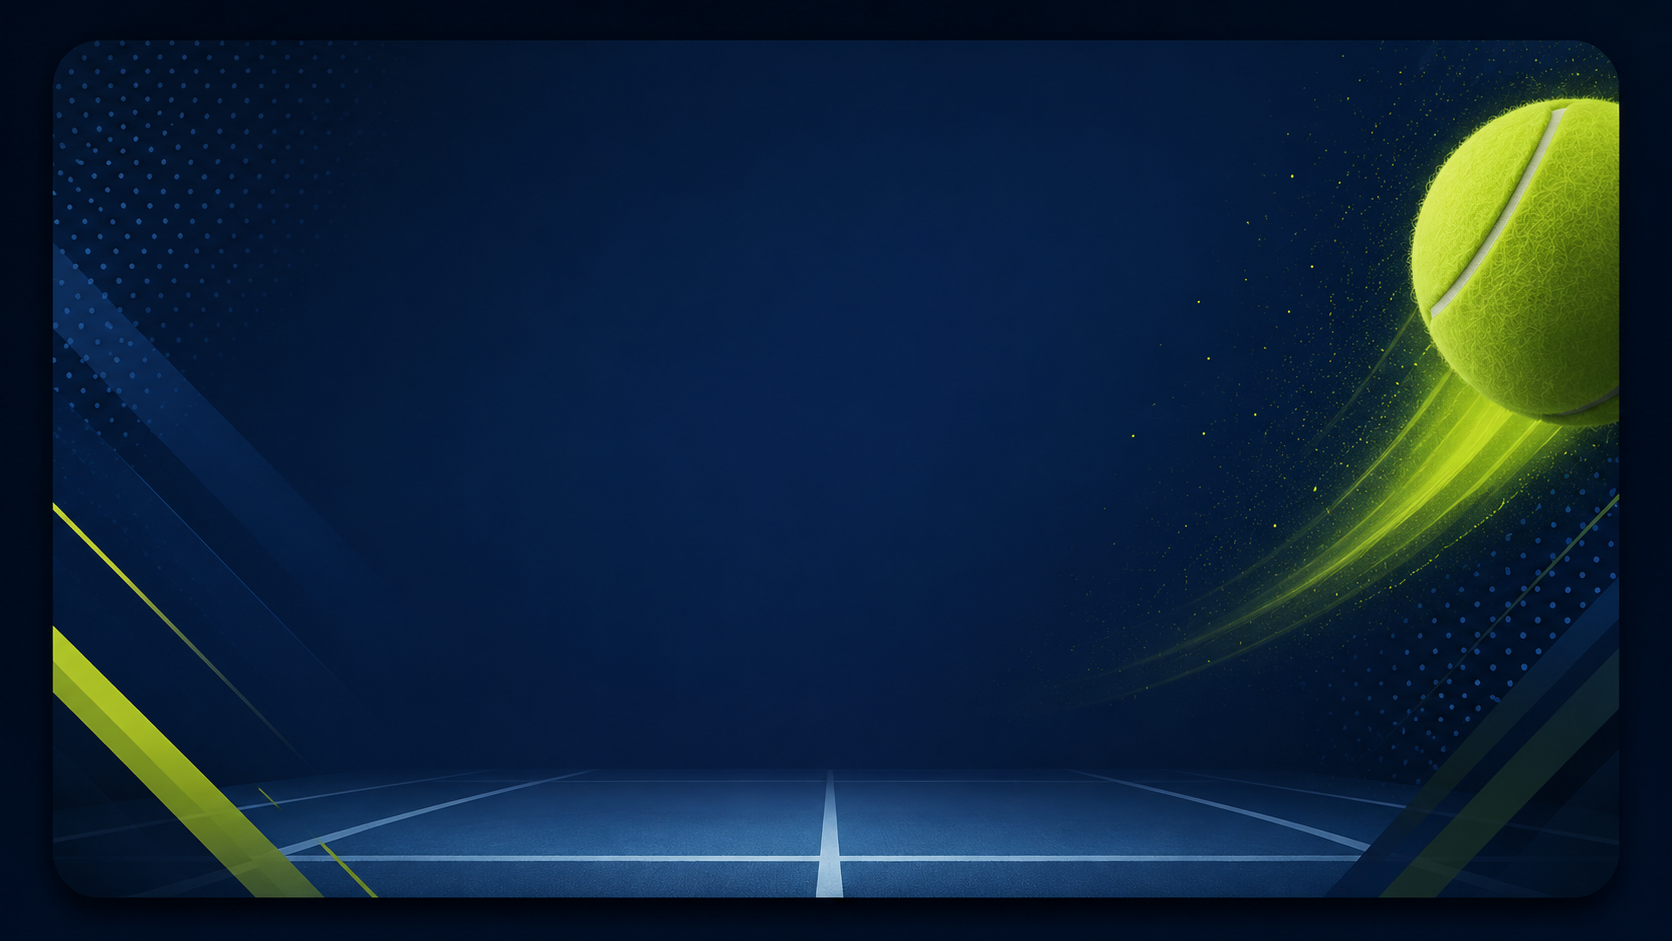
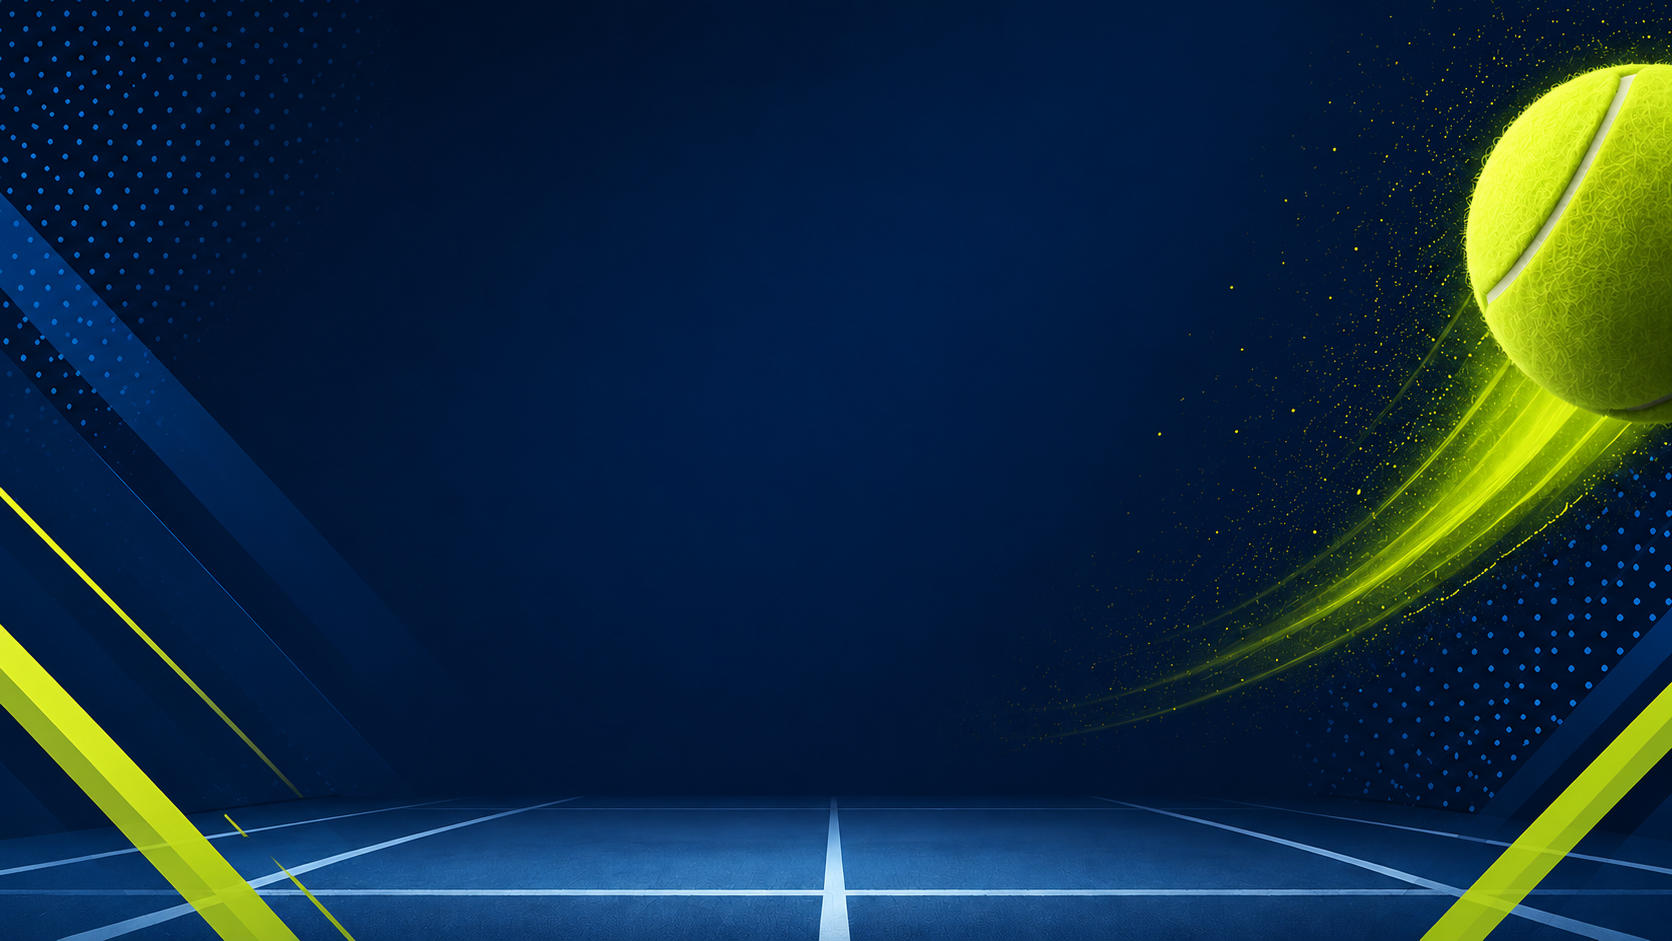
feat: Añadir banderas de equipos y texto 'VS' a las imágenes de eventos
Se añadieron las banderas de los equipos local y visitante.
También se incorporó el texto "VS" y un efecto de sombra.
Esto mejora la representación visual de los eventos.

Changed region(s): [[0.0, 0.0308, 1.0, 1.0], [0.3732, 0.0, 0.8708, 0.0616], [0.8086, 0.8321, 0.8397, 0.8629]]

diff --git a/scripts/services/event_images.py b/scripts/services/event_images.py
@@ -150,8 +150,39 @@ def generar_imagen_evento_tenis(
         bg = ImageOps.fit(bg, (W, H), method=Image.Resampling.LANCZOS, centering=(0.5, 0.5))
         img.paste(bg)
 
+    img = img.convert("RGBA")
+    draw = ImageDraw.Draw(img)
+    bold_path = next((path for path in FONT_PATHS if path.exists()), None)
+    font_vs = ImageFont.truetype(bold_path, 38) if bold_path else ImageFont.load_default()
+
+    flag_size = (190, 130)
+    home_flag = cargar_logo(bandera_local, flag_size)
+    away_flag = cargar_logo(bandera_visitante, flag_size)
+
+    shadow = Image.new("RGBA", (230, 170), (0, 0, 0, 0))
+    shadow_draw = ImageDraw.Draw(shadow)
+    shadow_draw.rounded_rectangle((20, 20, 210, 150), radius=16, fill=(0, 0, 0, 125))
+    shadow = shadow.filter(ImageFilter.GaussianBlur(14))
+
+    home_x = W // 2 - 250
+    away_x = W // 2 + 60
+    flag_y = 122
+    img.paste(shadow, (home_x - 20, flag_y - 20), shadow)
+    img.paste(shadow, (away_x - 20, flag_y - 20), shadow)
+    img.paste(home_flag, (home_x, flag_y), home_flag)
+    img.paste(away_flag, (away_x, flag_y), away_flag)
+    draw.text(
+        (W // 2, flag_y + flag_size[1] // 2),
+        "VS",
+        font=font_vs,
+        fill="#f8fafc",
+        anchor="mm",
+        stroke_width=2,
+        stroke_fill=(0, 0, 0, 170),
+    )
+
     salida_dir.mkdir(parents=True, exist_ok=True)
-    img.save(salida, quality=95)
+    img.convert("RGB").save(salida, quality=95)
     return url_publica_imagen(salida)
 
 